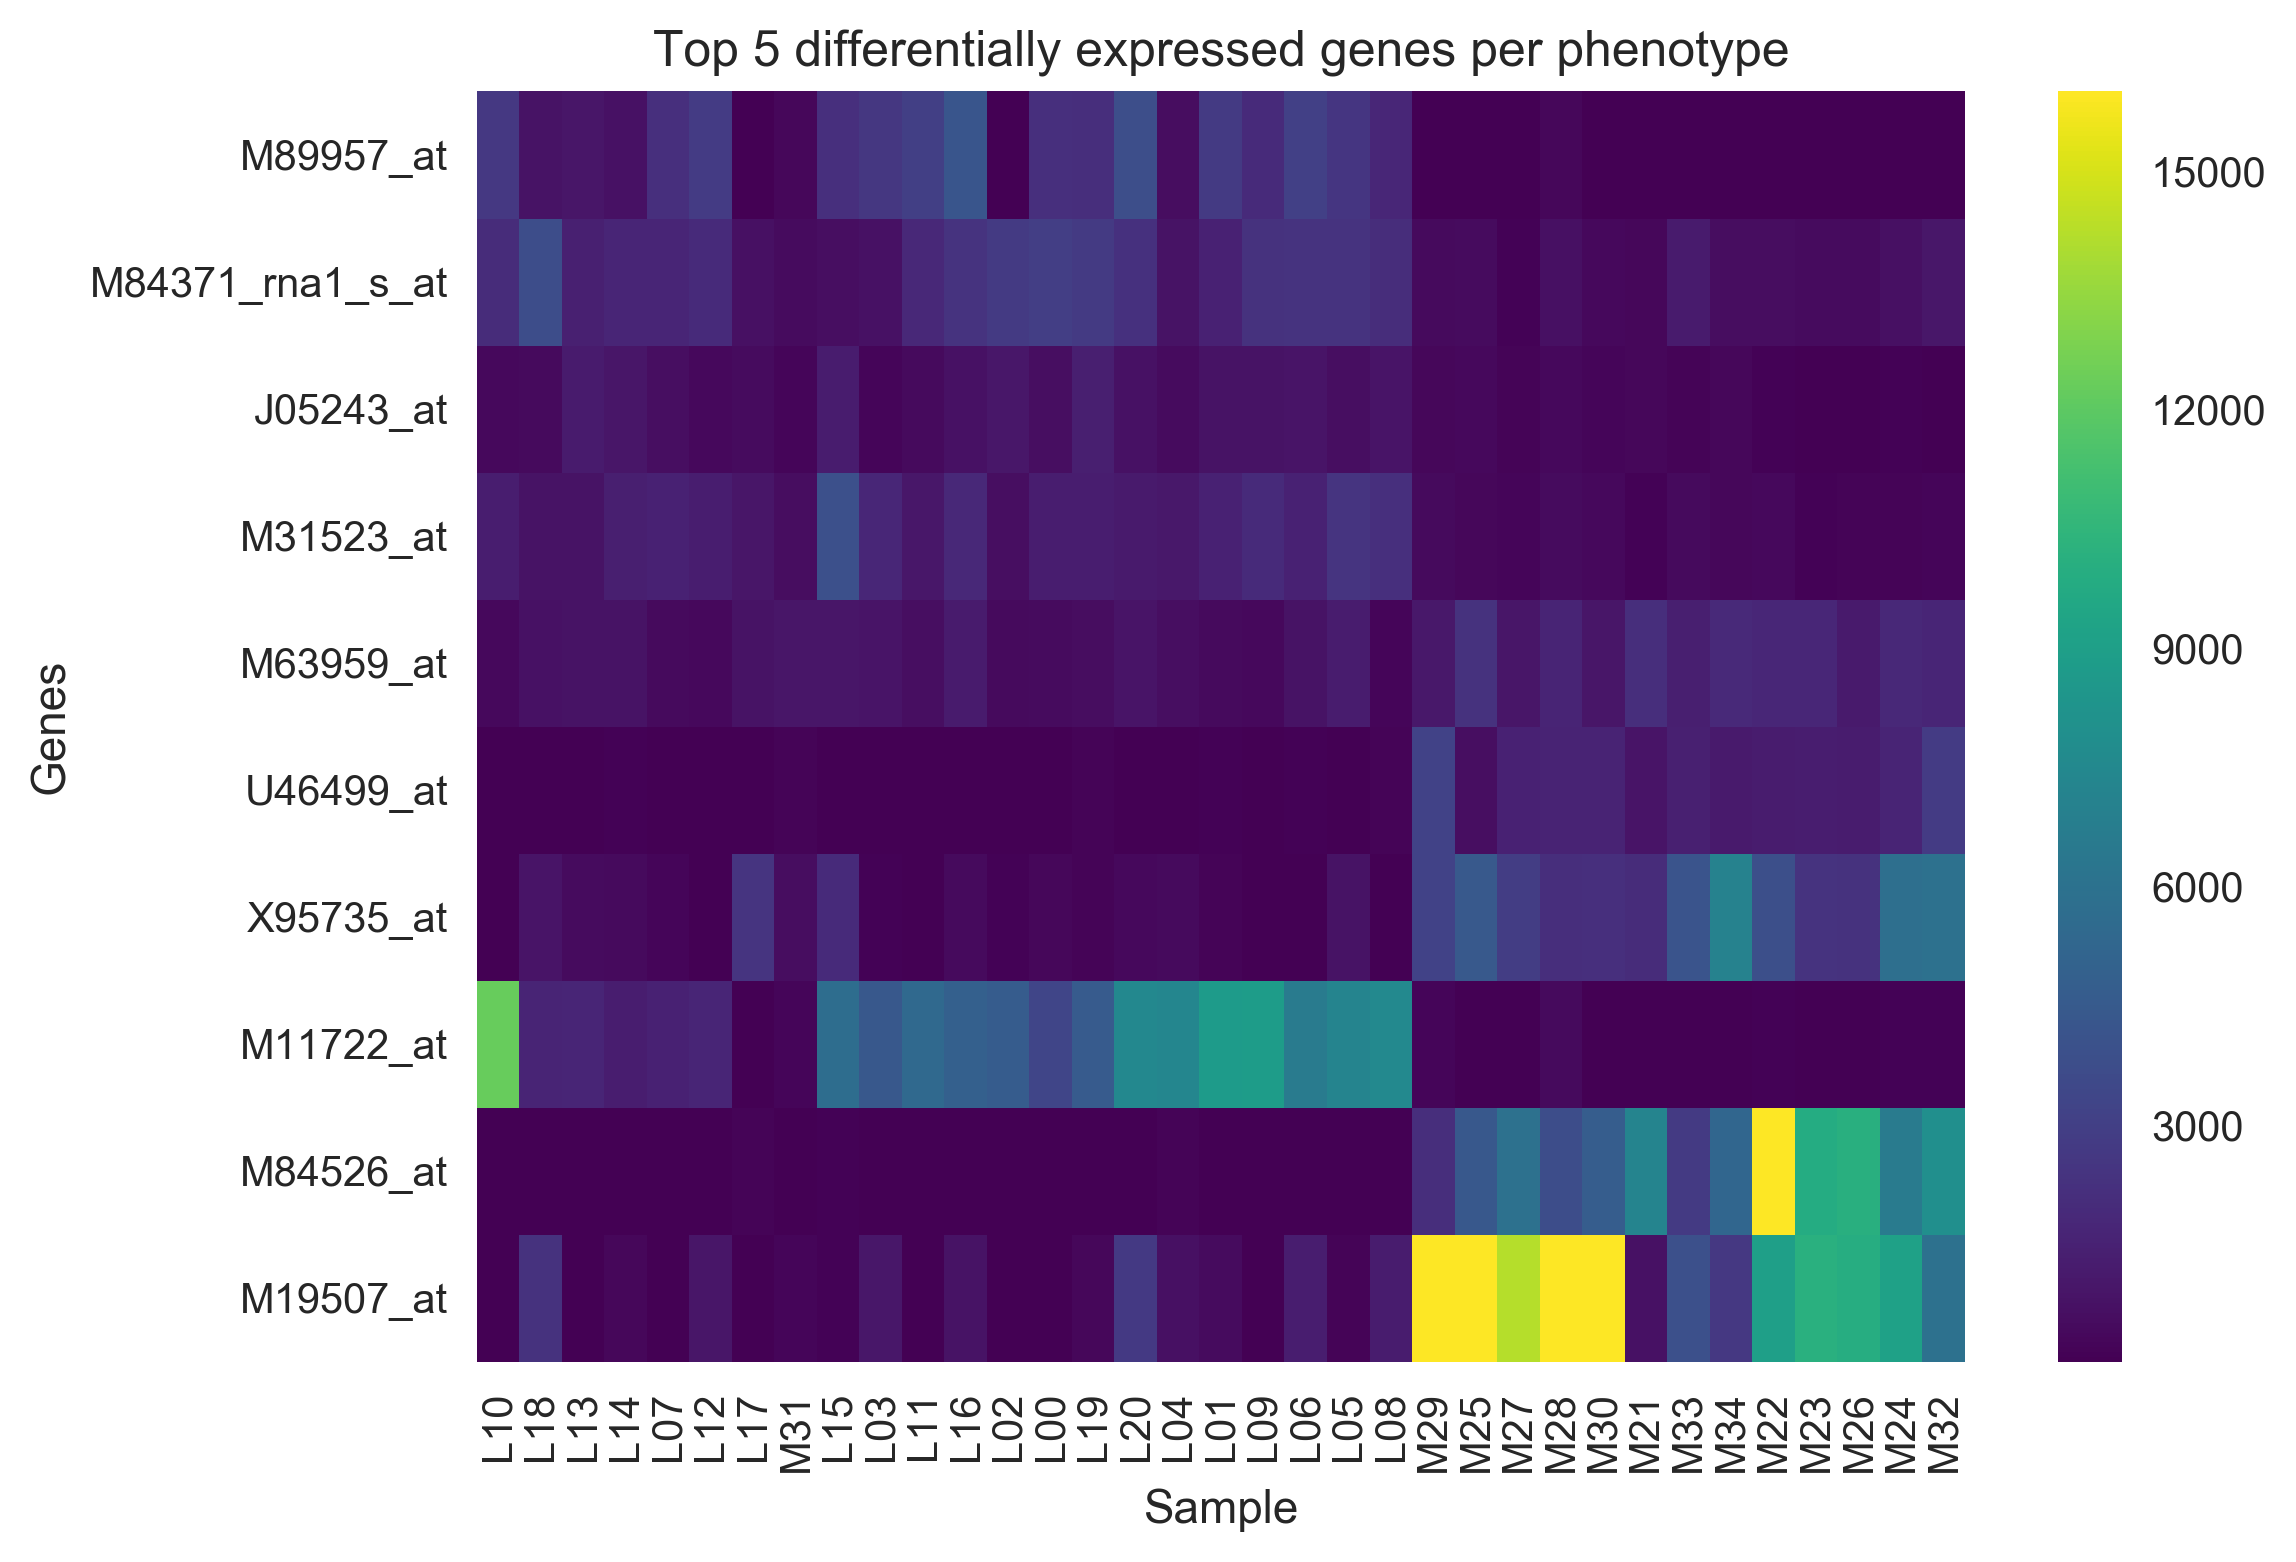
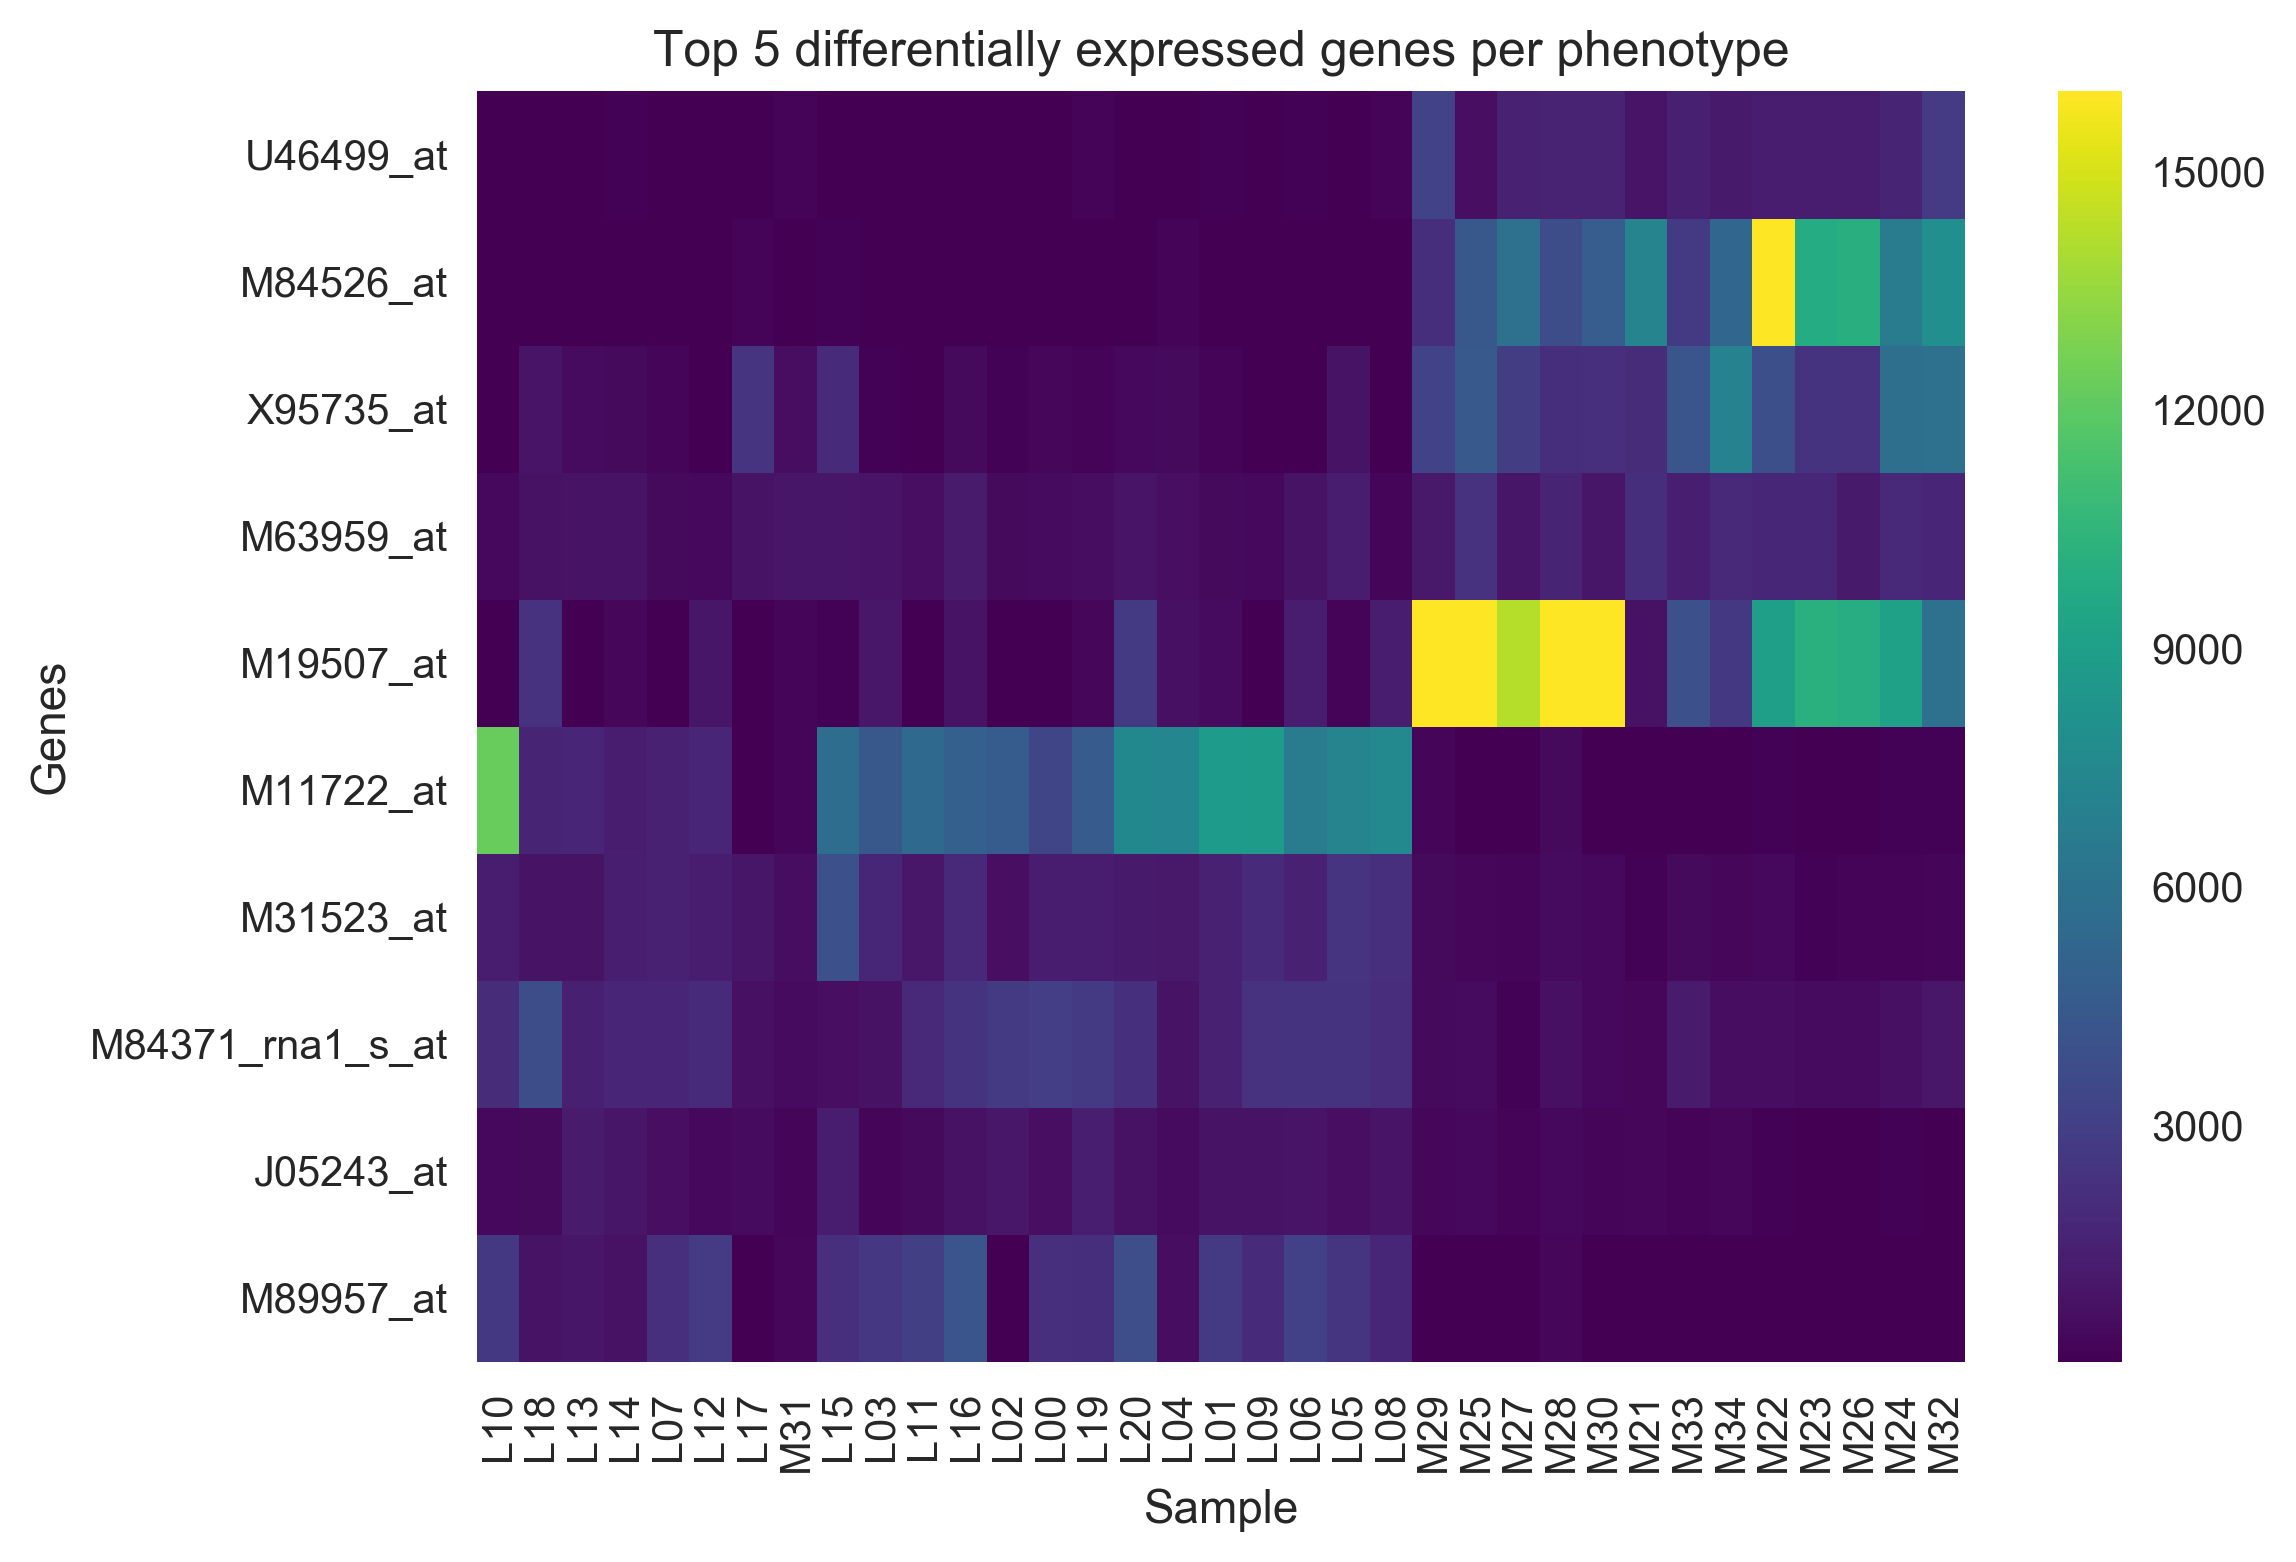
all parameters are working as expected. Need to modify HierarchicalClustering.py to ensure they are used appropiately to produce the correct outputs

diff --git a/src/hc_functions.py b/src/hc_functions.py
@@ -19,35 +19,35 @@ def parse_inputs(args=sys.argv):
         gct_name = args[1]
         distance_metric = 'euclidean'
         output_distances = False
-        cluster_by_rows = False
+        row_distance_metric = False
         clustering_method = 'Pairwise average-linkage'
         output_base_name = 'HC'
         print("Using:")
         print("\tgct_name =", gct_name)
         print("\tdistance_metric = euclidean (default value)")
         print("\toutput_distances =", output_distances, "(default: not computing it and creating a file)")
-        print("\tcluster_by_rows =", cluster_by_rows, "(default: not clustering by rows)")
+        print("\trow_distance_metric =", row_distance_metric, "(default: not clustering by rows)")
         print("\tclustering_method =", clustering_method, "(default: Pairwise average-linkage)")
         print("\toutput_base_name =", output_base_name, "(default: HC)")
     elif arg_n == 3:
         gct_name = args[1]
         distance_metric = args[2]
         output_distances = False
-        cluster_by_rows = False
+        row_distance_metric = False
         clustering_method = 'Pairwise average-linkage'
         output_base_name = 'HC'
         print("Using:")
         print("\tgct_name =", gct_name)
         print("\tdistance_metric =", distance_metric)
         print("\toutput_distances =", output_distances, "(default: not computing it and creating a file)")
-        print("\tcluster_by_rows =", cluster_by_rows, "(default: not clustering by rows)")
+        print("\trow_distance_metric =", row_distance_metric, "(default: not clustering by rows)")
         print("\tclustering_method =", clustering_method, "(default: Pairwise average-linkage)")
         print("\toutput_base_name =", output_base_name, "(default: HC)")
     elif arg_n == 4:
         gct_name = args[1]
         distance_metric = args[2]
         output_distances = args[3]
-        cluster_by_rows = False
+        row_distance_metric = False
         clustering_method = 'Pairwise average-linkage'
         output_base_name = 'HC'
         if (output_distances == 'False') or (output_distances == 'F')\
@@ -59,14 +59,14 @@ def parse_inputs(args=sys.argv):
         print("\tgct_name =", gct_name)
         print("\tdistance_metric =", distance_metric)
         print("\toutput_distances =", output_distances)
-        print("\tcluster_by_rows =", cluster_by_rows, "(default: not clustering by rows)")
+        print("\trow_distance_metric =", row_distance_metric, "(default: not clustering by rows)")
         print("\tclustering_method =", clustering_method, "(default: Pairwise average-linkage)")
         print("\toutput_base_name =", output_base_name, "(default: HC)")
     elif arg_n == 5:
         gct_name = args[1]
         distance_metric = args[2]
         output_distances = args[3]
-        cluster_by_rows = args[4]
+        row_distance_metric = args[4]
         clustering_method = 'Pairwise average-linkage'
         output_base_name = 'HC'
         if (output_distances == 'False') or (output_distances == 'F') \
@@ -74,23 +74,23 @@ def parse_inputs(args=sys.argv):
             output_distances = False
         else:
             output_distances = True
-        if (cluster_by_rows == 'False') or (cluster_by_rows == 'F') \
-                or (cluster_by_rows == 'false') or (cluster_by_rows == 'f'):
-            cluster_by_rows = False
-        else:
-            cluster_by_rows = True
+        if (row_distance_metric == 'False') or (row_distance_metric == 'F') \
+                or (row_distance_metric == 'false') or (row_distance_metric == 'f')\
+                or (row_distance_metric == 'No row clustering'):
+            row_distance_metric = False
+
         print("Using:")
         print("\tgct_name =", gct_name)
         print("\tdistance_metric =", distance_metric)
         print("\toutput_distances =", output_distances)
-        print("\tcluster_by_rows =", cluster_by_rows)
+        print("\trow_distance_metric =", row_distance_metric)
         print("\tclustering_method =", clustering_method, "(default: Pairwise average-linkage)")
         print("\toutput_base_name =", output_base_name, "(default: HC)")
     elif arg_n == 6:
         gct_name = args[1]
         distance_metric = args[2]
         output_distances = args[3]
-        cluster_by_rows = args[4]
+        row_distance_metric = args[4]
         clustering_method = args[5]
         if clustering_method not in linkage_dic.keys():
             exit("Clustering method chosen not supported. This should not have happened.")
@@ -104,23 +104,23 @@ def parse_inputs(args=sys.argv):
             output_distances = False
         else:
             output_distances = True
-        if (cluster_by_rows == 'False') or (cluster_by_rows == 'F') \
-                or (cluster_by_rows == 'false') or (cluster_by_rows == 'f'):
-            cluster_by_rows = False
-        else:
-            cluster_by_rows = True
+        if (row_distance_metric == 'False') or (row_distance_metric == 'F') \
+                or (row_distance_metric == 'false') or (row_distance_metric == 'f')\
+                or (row_distance_metric == 'No row clustering'):
+            row_distance_metric = False
+
         print("Using:")
         print("\tgct_name =", gct_name)
         print("\tdistance_metric =", distance_metric)
         print("\toutput_distances =", output_distances)
-        print("\tcluster_by_rows =", cluster_by_rows)
+        print("\trow_distance_metric =", row_distance_metric)
         print("\tclustering_method =", clustering_method)
         print("\toutput_base_name =", output_base_name, "(default: HC)")
     elif arg_n == 7:
         gct_name = args[1]
         distance_metric = args[2]
         output_distances = args[3]
-        cluster_by_rows = args[4]
+        row_distance_metric = args[4]
         clustering_method = args[5]
         output_base_name = args[6]
         if (output_distances == 'False') or (output_distances == 'F') \
@@ -128,23 +128,23 @@ def parse_inputs(args=sys.argv):
             output_distances = False
         else:
             output_distances = True
-        if (cluster_by_rows == 'False') or (cluster_by_rows == 'F') \
-                or (cluster_by_rows == 'false') or (cluster_by_rows == 'f'):
-            cluster_by_rows = False
-        else:
-            cluster_by_rows = True
+        if (row_distance_metric == 'False') or (row_distance_metric == 'F') \
+                or (row_distance_metric == 'false') or (row_distance_metric == 'f')\
+                or (row_distance_metric == 'No row clustering'):
+            row_distance_metric = False
+
         print("Using:")
         print("\tgct_name =", gct_name)
         print("\tdistance_metric =", distance_metric)
         print("\toutput_distances =", output_distances)
-        print("\tcluster_by_rows =", cluster_by_rows)
+        print("\trow_distance_metric =", row_distance_metric)
         print("\tclustering_method =", clustering_method)
         print("\toutput_base_name =", output_base_name)
     else:
         sys.exit("Too many inputs. This module needs only a GCT file to work, "
                  "plus an optional input choosing between Pearson Correlation or Information Coefficient.")
 
-    return gct_name, distance_metric, output_distances, cluster_by_rows, clustering_method, output_base_name
+    return gct_name, distance_metric, output_distances, row_distance_metric, clustering_method, output_base_name
 
 
 def plot_dendrogram(model, dist=cusca.mydist, **kwargs):

diff --git a/src/HierarchicalClustering.py b/src/HierarchicalClustering.py
@@ -40,7 +40,7 @@ from sklearn.cluster import AgglomerativeClustering
 sns.set_style("white")
 from hc_functions import *
 
-gct_name, distance_metric, output_distances, cluster_by_rows, clustering_method, output_base_name = parse_inputs(sys.argv)
+gct_name, distance_metric, output_distances, row_distance_metric, clustering_method, output_base_name = parse_inputs(sys.argv)
 data, data_df, plot_labels, row_lables = parse_data(gct_name)
 model = AgglomerativeClustering(linkage=linkage_dic[clustering_method], n_clusters=2,
                                 affinity=str2func[distance_metric])
@@ -61,18 +61,19 @@ plt.savefig(output_base_name+'_sample_cluster.png', dpi=300, bbox_inches='tight'
 cusca.list2cls(model.labels_, name_of_out=output_base_name+'_column_labels.cls')
 
 order_of_rows = data_df.index.values
+
 # Independent clustering by rows
-if cluster_by_rows:
-    model_T = AgglomerativeClustering(linkage=linkage_dic[clustering_method], n_clusters=2,
-                                      affinity=str2func[distance_metric])
-    model_T.fit(np.transpose(data))
-    fig.clf()
-    # order_of_rows = plot_dendrogram(row_model, dist=str2dist[distance_metric], labels=row_lables)
-    order_of_rows = two_plot_two_dendrogram(model_T, dist=str2dist[distance_metric], labels=row_lables)
-    # plt.savefig('sample_cluster.png', dpi=300, bbox_inches='tight')
-    # two_plot_two_dendrogram(model, top=int(np.floor(len(data_df)/2)), col_order=order_of_columns)
-    plt.savefig(output_base_name+'_sample_cluster_2.png', dpi=300, bbox_inches='tight')
-    cusca.list2cls(model_T.labels_, name_of_out=output_base_name+'_row_labels.cls')
+# if row_distance_metric:
+#     model_T = AgglomerativeClustering(linkage=linkage_dic[clustering_method], n_clusters=2,
+#                                       affinity=str2func[distance_metric])
+#     model_T.fit(np.transpose(data))
+#     fig.clf()
+#     # order_of_rows = plot_dendrogram(row_model, dist=str2dist[distance_metric], labels=row_lables)
+#     order_of_rows = two_plot_two_dendrogram(model_T, dist=str2dist[distance_metric], labels=row_lables)
+#     # plt.savefig('sample_cluster.png', dpi=300, bbox_inches='tight')
+#     # two_plot_two_dendrogram(model, top=int(np.floor(len(data_df)/2)), col_order=order_of_columns)
+#     plt.savefig(output_base_name+'_sample_cluster_2.png', dpi=300, bbox_inches='tight')
+#     cusca.list2cls(model_T.labels_, name_of_out=output_base_name+'_row_labels.cls')
 
 plot_heatmap(data_df, top=int(np.floor(len(data_df)/2)), col_order=order_of_columns, row_order=order_of_rows)
 

diff --git a/src/command_line.py b/src/command_line.py
@@ -18,6 +18,8 @@ gct_file = 'test_dataset.gct'
 # func = 'kendall'
 func = 'euclidean'
 # func = 'information_coefficient'
-command = "python HierarchicalClustering.py "+INPUT_FILE_DIR+gct_file+" "+func+" True"+" True"
+
+# gct_name, distance_metric, output_distances, row_distance_metric, clustering_method, output_base_name
+command = "python HierarchicalClustering.py "+INPUT_FILE_DIR+gct_file+" "+func+" True "+func
 print("About to make this command line call\n\t", command)
 call(command, shell=True)
